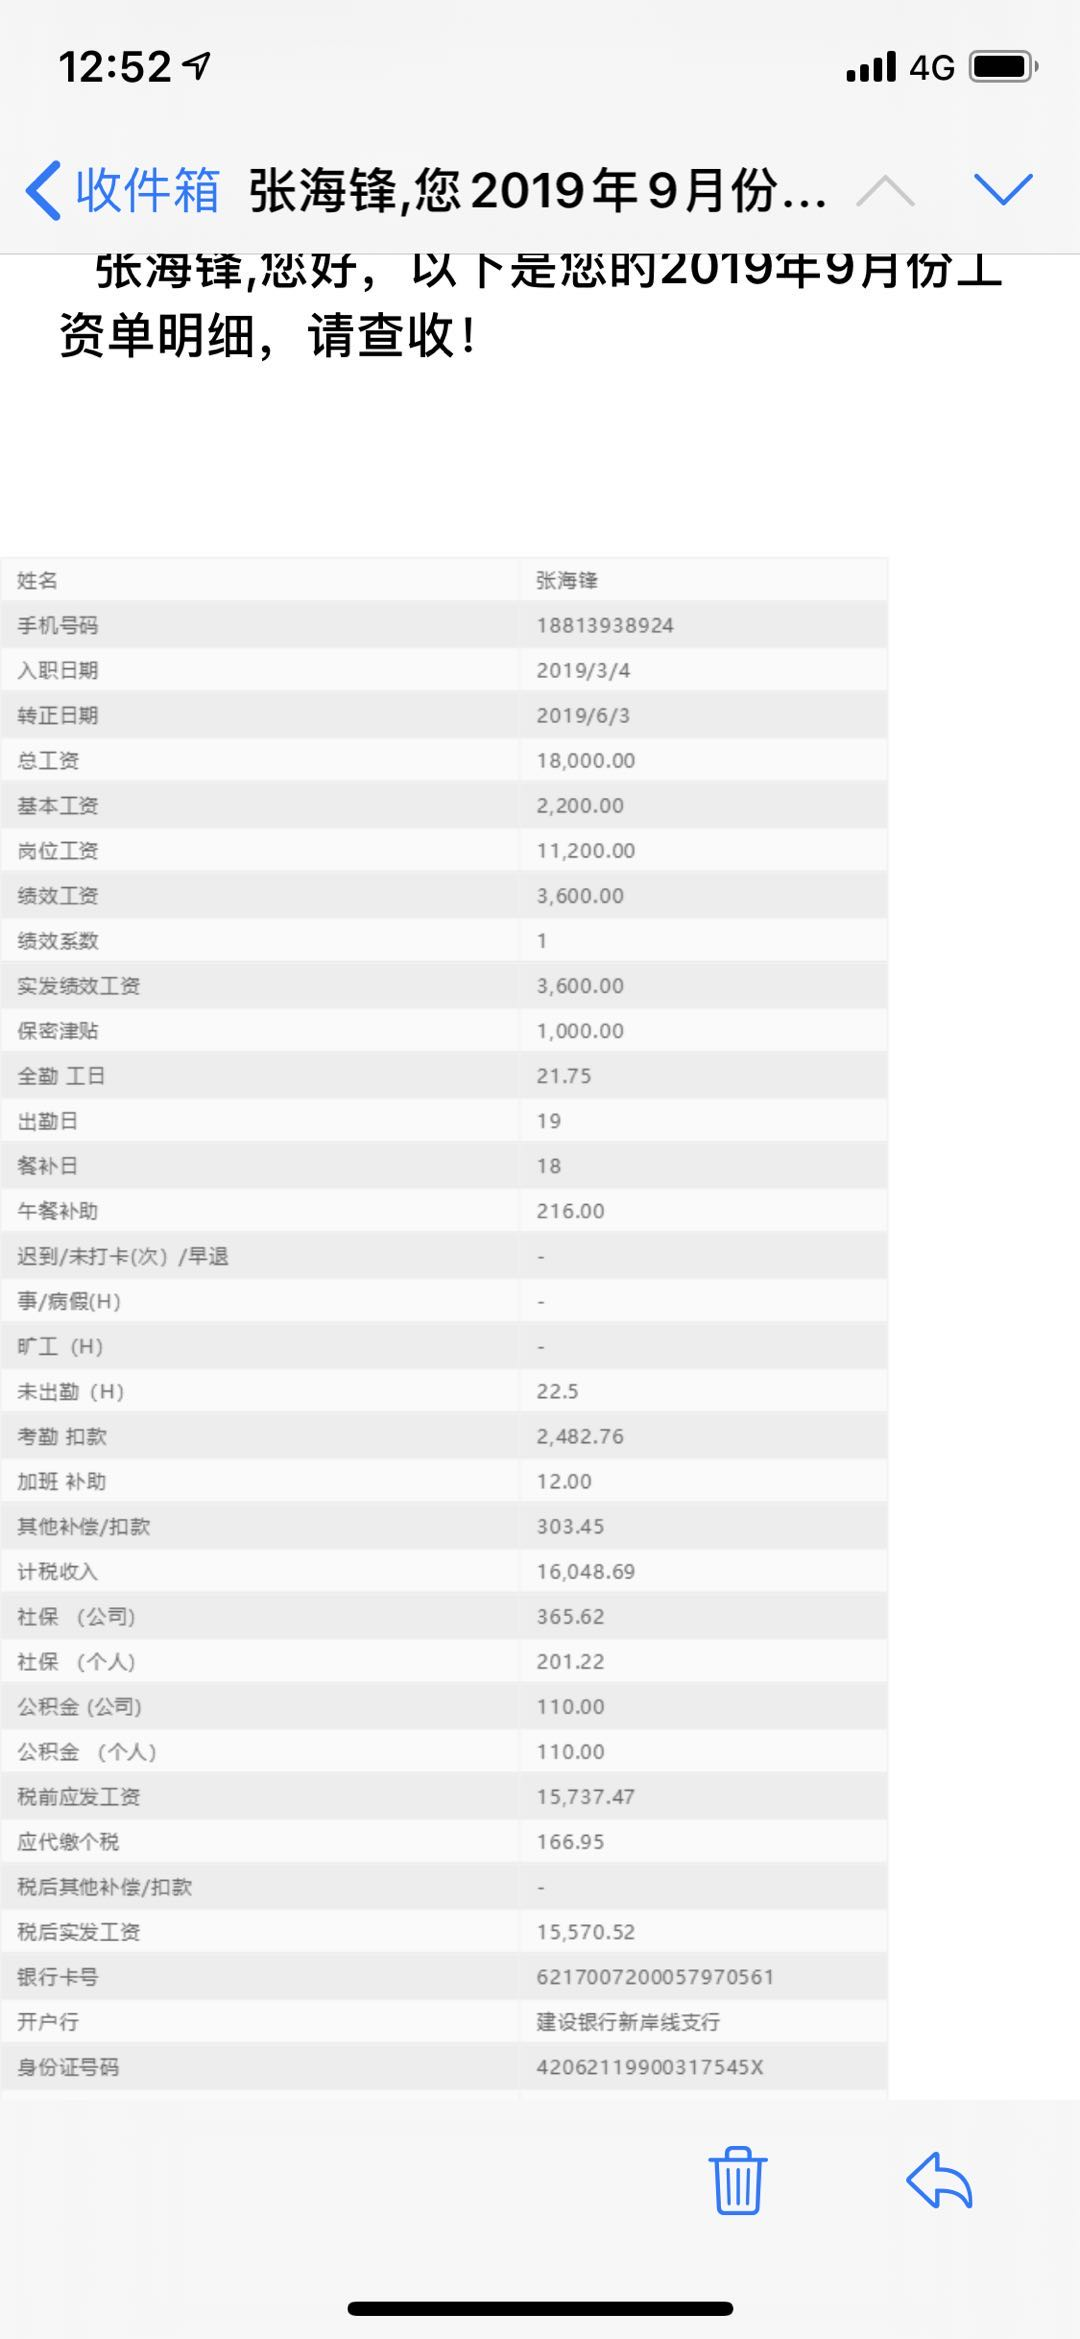
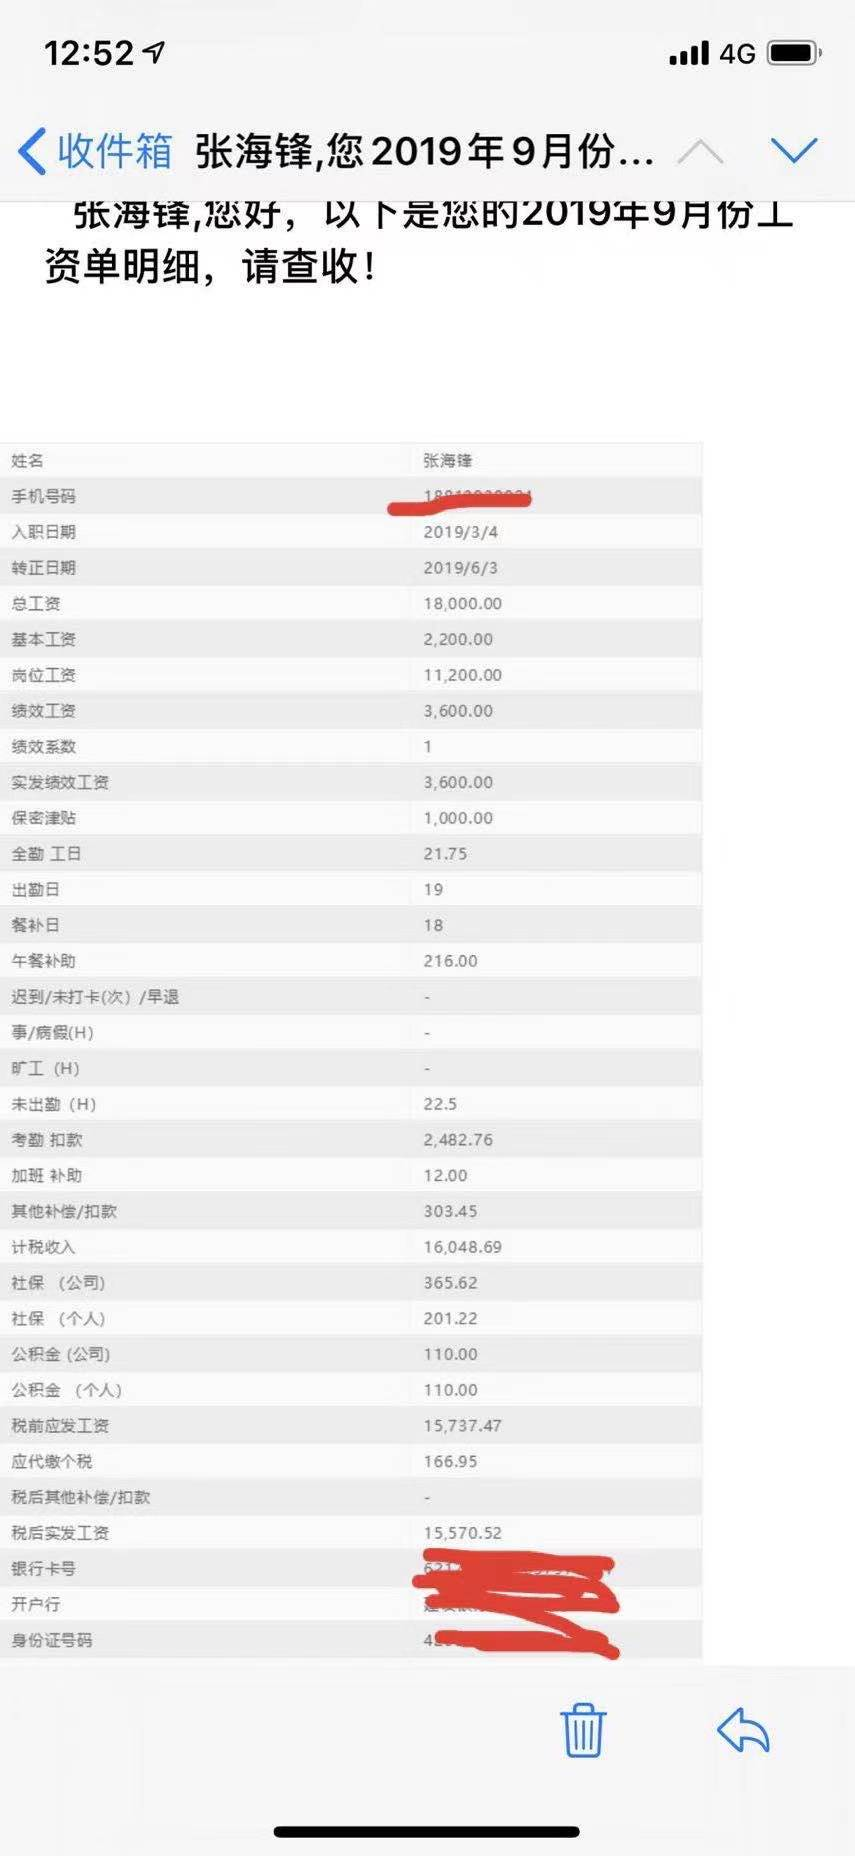
replace image 2 and 4

diff --git a/README.md b/README.md
@@ -35,13 +35,13 @@
 -- ![image](https://i.loli.net/2020/10/22/yXQY9avORAJtcUo.jpg)
 
 ### 2019年9月工资条休婚假考勤扣款截图：
--- ![image](https://i.loli.net/2020/10/22/iSgeZtqyVEoXczQ.jpg)
+-- ![image](https://i.loli.net/2021/02/08/YXSnlOU4RPpG5st.jpg)
 
 ### 休陪产假申请截图：
 -- ![image](https://i.loli.net/2020/10/22/uQSswcnbZEmjtK7.jpg)
 
 ### 2019年12月工资条休陪产假考勤扣款截图：
--- ![image](https://i.loli.net/2020/10/22/xWIcOH3XGMotUbC.jpg)
+-- ![image](https://i.loli.net/2021/02/08/njDr1KlzceGOIE2.jpg)
 
 ## 你最开始找到哪个部门来维权？
 一开始我先找到的是南山劳动监察大队，想协商解决这个问题。劳动监察大队给公司打了电话了解问题，然后来协商解决。
